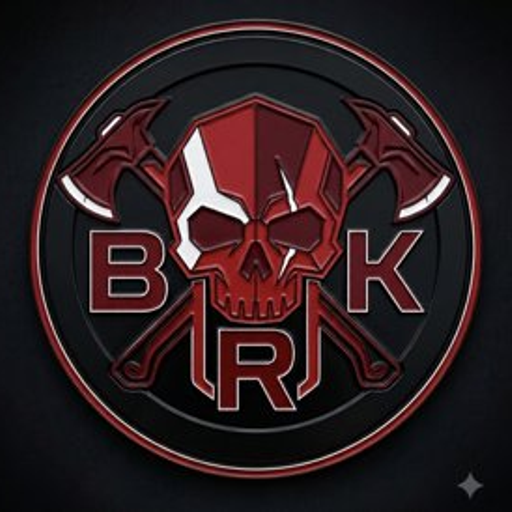
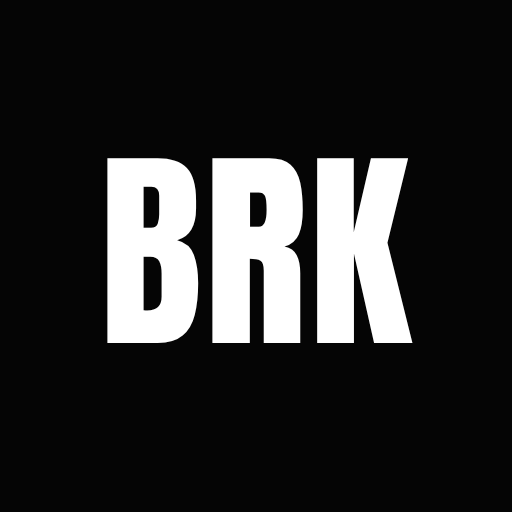
V2 transformation Phase 2: replace old skull/axes BRK mark with the new black/white monogram
Swaps every real brand-identity asset the old skull-and-crossed-axes "BRK" emblem
appeared in, except the two deliberately untouched per earlier scoping (the
B.R.E.A.K.-meaning page and the workout/photo-share watermark, which both still use
BREAK_LOGO directly and are out of scope here):

- public/icon-192.png, icon-512.png (PWA manifest icons)
- public/apple-touch-icon.png
- public/favicon.png (new; replaces and removes the old favicon.jpg)
- src/App.jsx Header(): in-app header mark, was an <img src={BREAK_LOGO}>, now a
  token-driven badge (v5-bg background, v5-muted ring, font-brk-display "BRK")
- public/manifest.webmanifest: background_color/theme_color #151515 -> #050505 to
  match the new v5.bg so the PWA splash screen isn't a mismatched old charcoal while
  everything else is near-black. start_url/scope/display untouched — app identity
  and install behavior are unaffected, this is icon/color only.
- index.html: theme-color meta updated to match; favicon <link> now points at the
  new PNG.

New icon artwork rendered via Playwright (same approach as the earlier icon trial),
using this branch's actual v5.bg (#050505) rather than reusing a stale pre-rendered
PNG from a different background shade.

266/266 tests passing, clean build. Verified live: dev-server screenshot of the
Today header shows the new mark rendering correctly, zero console errors; confirmed
the old favicon.jpg is absent from dist/ and the new favicon.png/icon-*.png are
present.
[…]

diff --git a/src/App.jsx b/src/App.jsx
@@ -3300,7 +3300,15 @@ function Header() {
   return (
     <div className="px-4 sm:px-6 pt-2 pb-1.5 sm:pt-3 sm:pb-2 bg-v5-bg">
       <div className="flex items-center gap-1.5 sm:gap-2">
-        <img src={BREAK_LOGO} alt="B.R.E.A.K. logo" className="w-7 h-7 rounded-full object-cover ring-1 ring-v5-red/50" />
+        {/* New BRK identity: black background, bold white "BRK" — no skull/axes imagery.
+            aria-hidden since the adjacent "BRK - FIT" text already names the app for
+            screen readers; this mark is decorative. */}
+        <div
+          className="w-7 h-7 rounded-full bg-v5-bg ring-1 ring-v5-muted flex items-center justify-center shrink-0"
+          aria-hidden="true"
+        >
+          <span className="font-brk-display text-[10px] leading-none text-v5-text tracking-tight">BRK</span>
+        </div>
         <div className="min-w-0">
           <div className="text-v5-text font-black tracking-wide text-sm leading-none">
             BRK <span className="text-v5-red">-</span> FIT

diff --git a/index.html b/index.html
@@ -17,10 +17,12 @@
     <link rel="preconnect" href="https://fonts.gstatic.com" crossorigin />
     <link href="https://fonts.googleapis.com/css2?family=Anton&family=Oswald:wght@400;500;600;700&family=Inter:wght@400;500;600;700;800;900&display=swap" rel="stylesheet" />
     <title>BRK - Fit</title>
-    <link rel="icon" type="image/jpeg" href="/favicon.jpg" />
+    <!-- New BRK identity: pure/near-black background, bold white uppercase "BRK" — no
+         skull/axes/dumbbell imagery. Replaces the old favicon.jpg (removed). -->
+    <link rel="icon" type="image/png" href="/favicon.png" />
     <link rel="apple-touch-icon" href="/apple-touch-icon.png" />
     <link rel="manifest" href="/manifest.webmanifest" />
-    <meta name="theme-color" content="#151515" />
+    <meta name="theme-color" content="#050505" />
     <meta name="description" content="BRK Fit — workout templates, custom plans, and progression tracking." />
   </head>
   <body class="bg-charcoal-deep">
